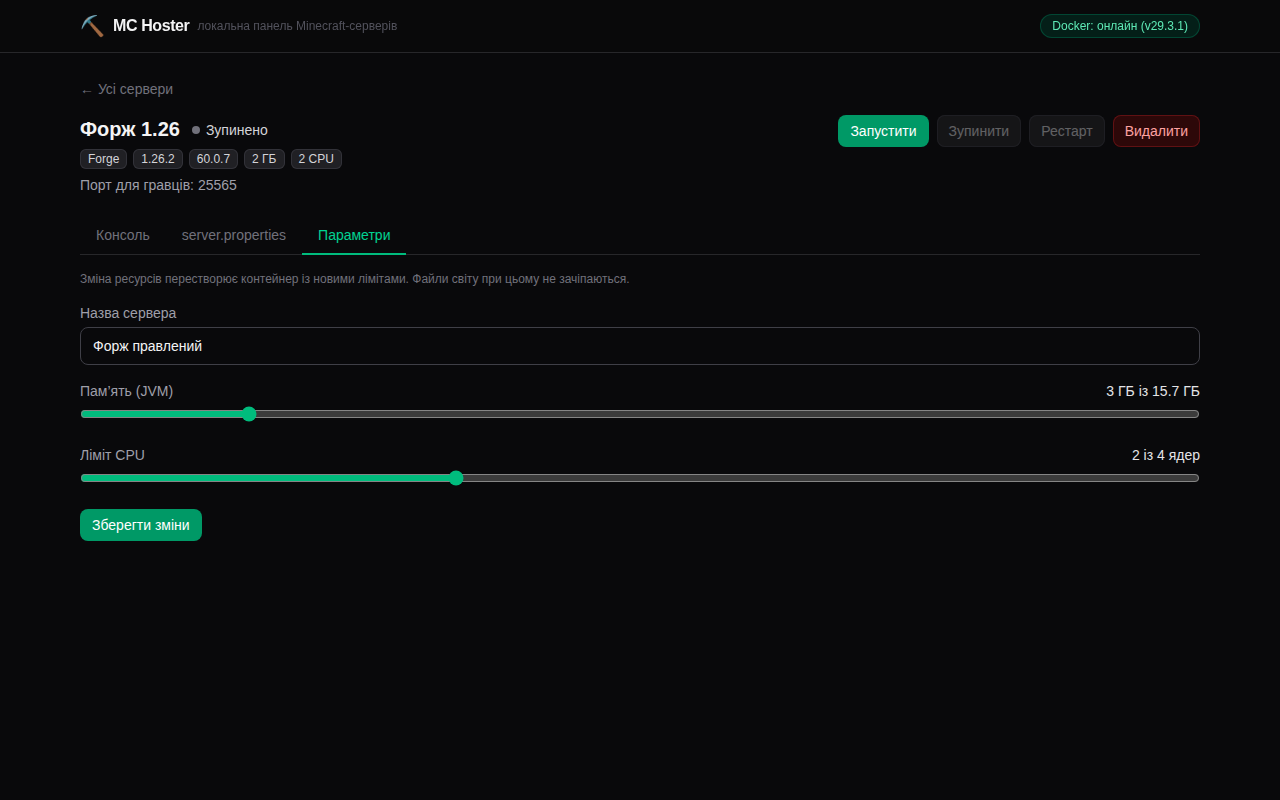
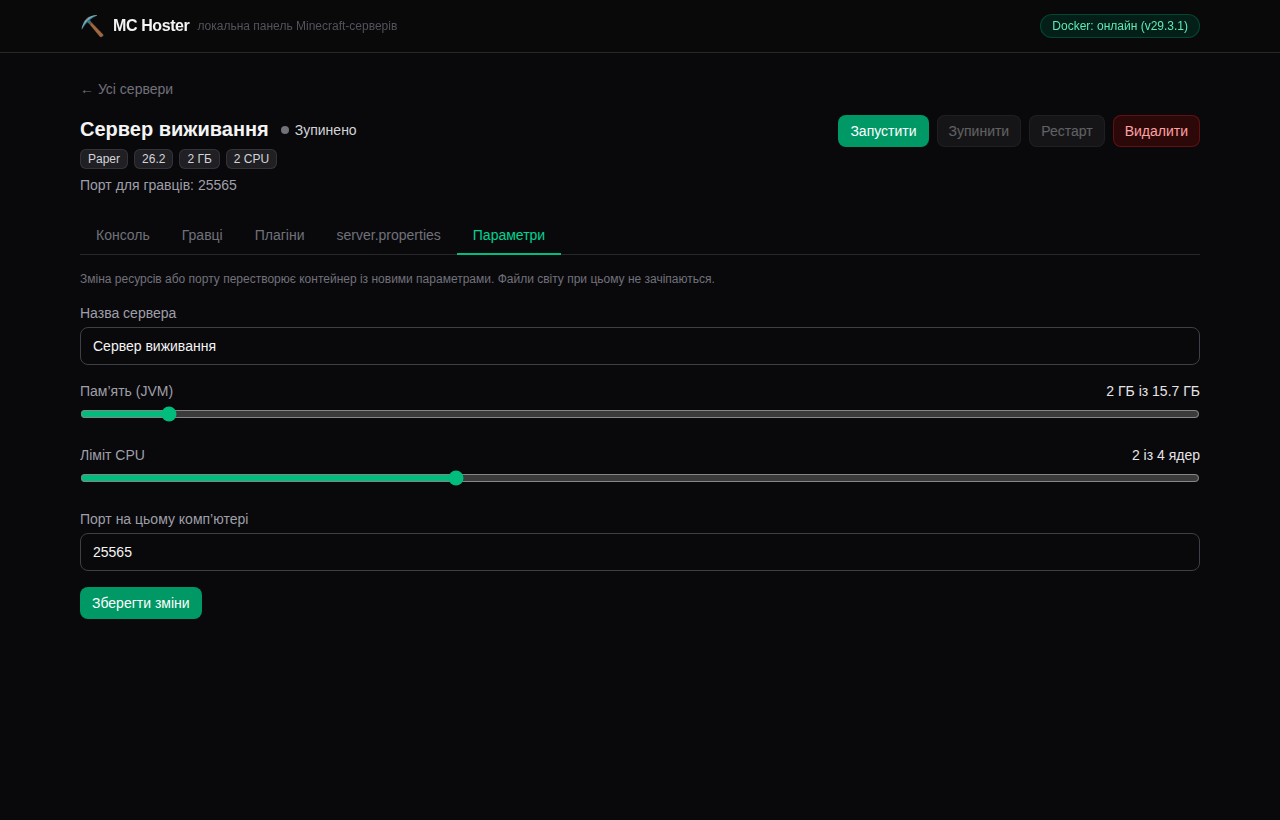
Фікси: автоскрол консолі, warning угорі в плагінах, редагування порту
1. Консоль тепер прокручується донизу (найновіше) при поверненні на вкладку —
   повторне монтування скидало scrollTop у 0; ставимо його на scrollHeight.

2. Попередження про рестарт у вкладці плагінів/модів перенесено ВГОРУ (перед
   drop-зоною) — тепер як на решті вкладок (єдиний стиль).

3. Порт можна змінити у «Параметрах» поряд з ОЗП і ЦП:
   - бекенд: PATCH приймає hostPort; валідація (унікальність, не порт панелі,
     вільний), перестворення контейнера з новим PortBindings — лише на зупиненому
   - фронтенд: поле порту у вкладці параметрів, активне тільки коли сервер зупинено

E2E (Chromium + Docker): 9/9 — консоль після повернення внизу, warning вище
drop-зони, поле порту, збереження порту + PortBindings нового контейнера.

Claude-Session: https://claude.ai/code/session_01STJUBpJNaT55nXvuKZLG6k

diff --git a/backend/src/services/serverService.ts b/backend/src/services/serverService.ts
@@ -308,9 +308,9 @@ export class ServerService {
   }
 
   /**
-   * Редагування сервера: назва — будь-коли; пам'ять/CPU — лише коли сервер
-   * зупинено (зміна лімітів вимагає перестворення контейнера, бо MEMORY —
-   * це env, який образ читає на старті).
+   * Редагування сервера: назва — будь-коли; пам'ять / CPU / порт — лише коли
+   * сервер зупинено (усі три застосовуються при СТВОРЕННІ контейнера: MEMORY —
+   * env, ліміт CPU — NanoCpus, порт — PortBindings), тож потребують перестворення.
    */
   async updateServer(id: string, patch: UpdateServerInput): Promise<ServerView> {
     const record = this.mustGet(id);
@@ -329,6 +329,23 @@ export class ServerService {
     const memoryChanged = patch.memoryMb !== undefined && patch.memoryMb !== record.memoryMb;
     const cpuChanged =
       patch.cpuCores !== undefined && (patch.cpuCores ?? null) !== record.cpuCores;
+    const portChanged = patch.hostPort !== undefined && patch.hostPort !== record.hostPort;
+    const needsRecreate = memoryChanged || cpuChanged || portChanged;
+
+    // Валідація нового порту (унікальність серед серверів, не порт панелі, вільний).
+    if (portChanged) {
+      const port = patch.hostPort!;
+      if (port === this.config.port) {
+        throw new ConflictError(`Порт ${port} зайнятий самою панеллю`);
+      }
+      const byPort = this.repo.findByPort(port);
+      if (byPort && byPort.id !== id) {
+        throw new ConflictError(`Порт ${port} уже закріплено за іншим сервером`);
+      }
+      if (!(await isTcpPortFree(port, this.config.gameBindHost))) {
+        throw new ConflictError(`Порт ${port} уже зайнятий іншим процесом на цьому комп'ютері`);
+      }
+    }
 
     if (memoryChanged || cpuChanged) {
       const totalMemoryMb = Math.floor(os.totalmem() / (1024 * 1024));
@@ -341,14 +358,14 @@ export class ServerService {
       if (patch.cpuCores != null && patch.cpuCores > cpuCount) {
         throw new ConflictError(`Запитано ${patch.cpuCores} ядер, а на машині всього ${cpuCount}`);
       }
+    }
 
-      // Ліміти застосовуються при створенні контейнера → міняти можна лише на зупиненому.
-      if (record.containerId) {
-        await assertDockerAvailable();
-        const state = await this.containers.inspectState(record.containerId);
-        if (state.running) {
-          throw new ConflictError('Зупиніть сервер, щоб змінити ресурси (потрібне перестворення контейнера)');
-        }
+    // Перестворення застосовується лише на зупиненому сервері.
+    if (needsRecreate && record.containerId) {
+      await assertDockerAvailable();
+      const state = await this.containers.inspectState(record.containerId);
+      if (state.running) {
+        throw new ConflictError('Зупиніть сервер, щоб змінити ресурси або порт (потрібне перестворення контейнера)');
       }
     }
 
@@ -356,15 +373,16 @@ export class ServerService {
       ...(newName ? { name: newName } : {}),
       ...(patch.memoryMb !== undefined ? { memoryMb: patch.memoryMb } : {}),
       ...(patch.cpuCores !== undefined ? { cpuCores: patch.cpuCores ?? null } : {}),
+      ...(patch.hostPort !== undefined ? { hostPort: patch.hostPort } : {}),
     });
     if (!updated) throw new NotFoundError(`Сервер з id=${id} не знайдено`);
 
-    // Перестворюємо контейнер із новими лімітами (світ у bind-mount — нічого не втрачається).
-    if ((memoryChanged || cpuChanged) && updated.containerId) {
+    // Перестворюємо контейнер із новими параметрами (світ у bind-mount — нічого не втрачається).
+    if (needsRecreate && updated.containerId) {
       await this.containers.removeIfExists(updated.containerId);
       const containerId = await this.containers.createServerContainer(updated, this.config.gameBindHost);
       this.repo.update(id, { containerId });
-      this.log.info(`Сервер ${updated.name} (${id}): контейнер перестворено з новими лімітами`);
+      this.log.info(`Сервер ${updated.name} (${id}): контейнер перестворено з новими параметрами`);
     }
 
     return this.toView(this.mustGet(id), await isDockerAvailable());

diff --git a/frontend/src/views/serverDetail.ts b/frontend/src/views/serverDetail.ts
@@ -330,12 +330,21 @@ export function renderServerDetail(root: HTMLElement, serverId: string): () => v
         // Повзунок на максимумі = «без ліміту CPU» (надсилаємо null).
         let cpuValue = current.cpuCores === null ? cpuCount : Math.min(current.cpuCores, cpuCount);
 
-        const nameInput = el('input', {
-          class:
-            'w-full rounded-lg border border-zinc-700 bg-zinc-950 px-3 py-2 text-sm text-zinc-100 ' +
-            'focus:border-emerald-500 focus:outline-none',
-          type: 'text',
-          value: current.name,
+        const inputClass =
+          'w-full rounded-lg border border-zinc-700 bg-zinc-950 px-3 py-2 text-sm text-zinc-100 ' +
+          'focus:border-emerald-500 focus:outline-none disabled:opacity-50';
+
+        const nameInput = el('input', { class: inputClass, type: 'text', value: current.name });
+
+        // Порт — як і ресурси, застосовується при створенні контейнера, тож
+        // редагується лише на зупиненому сервері.
+        const portInput = el('input', {
+          class: inputClass,
+          type: 'number',
+          min: '1024',
+          max: '65535',
+          value: String(current.hostPort),
+          disabled: resourcesLocked,
         });
 
         const formatGb = (mb: number): string =>
@@ -386,6 +395,12 @@ export function renderServerDetail(root: HTMLElement, serverId: string): () => v
               if (!resourcesLocked) {
                 patch.memoryMb = memoryMb;
                 patch.cpuCores = cpuValue >= cpuCount ? null : cpuValue;
+                const port = Number(portInput.value);
+                if (!Number.isInteger(port) || port < 1024 || port > 65535) {
+                  toast('Порт має бути числом від 1024 до 65535', 'error');
+                  return;
+                }
+                patch.hostPort = port;
               }
               applyServer(await api.updateServer(serverId, patch));
               toast('Налаштування збережено', 'success');
@@ -402,11 +417,11 @@ export function renderServerDetail(root: HTMLElement, serverId: string): () => v
             ? el('p', {
                 class:
                   'rounded-lg border border-amber-800/50 bg-amber-950/30 px-3 py-2 text-sm text-amber-300',
-                text: 'Сервер запущено: назву можна змінити зараз, а ресурси — лише після зупинки (потрібне перестворення контейнера).',
+                text: 'Сервер запущено: назву можна змінити зараз, а ресурси й порт — лише після зупинки (потрібне перестворення контейнера).',
               })
             : el('p', {
                 class: 'text-xs text-zinc-500',
-                text: 'Зміна ресурсів перестворює контейнер із новими лімітами. Файли світу при цьому не зачіпаються.',
+                text: 'Зміна ресурсів або порту перестворює контейнер із новими параметрами. Файли світу при цьому не зачіпаються.',
               }),
           el(
             'label',
@@ -435,6 +450,12 @@ export function renderServerDetail(root: HTMLElement, serverId: string): () => v
               cpuLabel,
             ),
             cpuSlider,
+          ),
+          el(
+            'label',
+            { class: 'block' },
+            el('span', { class: 'mb-1 block text-sm text-zinc-400', text: 'Порт на цьому комп’ютері' }),
+            portInput,
           ),
           saveButton,
         );
@@ -495,6 +516,10 @@ export function renderServerDetail(root: HTMLElement, serverId: string): () => v
               ? propertiesPanel
               : settingsPanel;
     mount(tabPanelSlot, panel);
+
+    // Повторне монтування скидає scrollTop у 0 → консоль показувала б початок.
+    // Прокручуємо до найновішого рядка при поверненні на вкладку консолі.
+    if (tab === 'console') consoleOutput.scrollTop = consoleOutput.scrollHeight;
 
     if (tab === 'properties' && !propertiesLoaded) void loadProperties();
     if (tab === 'settings') renderSettings();

diff --git a/backend/src/routes/servers.ts b/backend/src/routes/servers.ts
@@ -85,9 +85,19 @@ const updateServerSchema = z
       .max(256, 'Забагато ядер')
       .nullable()
       .optional(),
+    hostPort: z
+      .number({ invalid_type_error: 'Порт має бути числом' })
+      .int()
+      .min(1024, 'Використовуйте порти від 1024')
+      .max(65535, 'Порт має бути не більшим за 65535')
+      .optional(),
   })
   .refine(
-    (patch) => patch.name !== undefined || patch.memoryMb !== undefined || patch.cpuCores !== undefined,
+    (patch) =>
+      patch.name !== undefined ||
+      patch.memoryMb !== undefined ||
+      patch.cpuCores !== undefined ||
+      patch.hostPort !== undefined,
     { message: 'Немає жодного поля для оновлення' },
   );
 

diff --git a/frontend/src/views/addonsPanel.ts b/frontend/src/views/addonsPanel.ts
@@ -144,8 +144,9 @@ export function renderAddonsPanel(root: HTMLElement, serverId: string): () => vo
   }
 
   function render(): void {
-    const children: (HTMLElement | null)[] = [dropZone()];
+    const children: (HTMLElement | null)[] = [];
 
+    // Попередження про рестарт — угорі, як на інших вкладках (єдиний стиль).
     if (data?.requiresRestart) {
       children.push(
         el('p', {
@@ -157,6 +158,8 @@ export function renderAddonsPanel(root: HTMLElement, serverId: string): () => vo
     if (loadError) {
       children.push(el('p', { class: 'text-sm text-red-400', text: loadError }));
     }
+
+    children.push(dropZone());
 
     if (data) {
       const count = data.addons.length;

diff --git a/backend/src/db/serverRepository.ts b/backend/src/db/serverRepository.ts
@@ -27,6 +27,7 @@ export interface ServerPatch {
   name?: string;
   memoryMb?: number;
   cpuCores?: number | null;
+  hostPort?: number;
   pregenDone?: boolean;
   containerId?: string | null;
   status?: ProvisionStatus;
@@ -117,6 +118,7 @@ export class ServerRepository {
       name: 'name',
       memoryMb: 'memory_mb',
       cpuCores: 'cpu_cores',
+      hostPort: 'host_port',
       pregenDone: 'pregen_done',
       containerId: 'container_id',
       status: 'status',

diff --git a/backend/src/types.ts b/backend/src/types.ts
@@ -92,6 +92,8 @@ export interface UpdateServerInput {
   memoryMb?: number;
   /** null — зняти ліміт CPU. */
   cpuCores?: number | null;
+  /** Порт гри на хості (зміна перестворює контейнер). */
+  hostPort?: number;
 }
 
 /** Вхідні дані створення сервера (після zod-валідації). */

diff --git a/frontend/src/types.ts b/frontend/src/types.ts
@@ -109,6 +109,7 @@ export interface UpdateServerInput {
   name?: string;
   memoryMb?: number;
   cpuCores?: number | null;
+  hostPort?: number;
 }
 
 export interface VersionListResult {

diff --git a/README.md b/README.md
@@ -414,8 +414,8 @@ say Привіт усім!         — повідомлення в чат
 ### 2.7. Редагуйте параметри сервера
 
 Вкладка **Параметри** — зміна налаштувань уже створеного сервера: назва редагується
-будь-коли, а пам'ять і ліміт CPU — коли сервер зупинено (панель перестворює контейнер
-із новими лімітами; файли світу лежать на диску і не зачіпаються):
+будь-коли, а пам'ять, ліміт CPU і порт — коли сервер зупинено (панель перестворює
+контейнер із новими параметрами; файли світу лежать на диску і не зачіпаються):
 
 <p align="center"><img src="docs/screenshots/07-settings.png" alt="Вкладка Параметри" width="800"></p>
 
@@ -641,7 +641,7 @@ npm run package -w backend      # → dist-release/mc-hoster-<os>-<arch>/
 | `GET /api/servers` | Список серверів + живий стан (`runtime: creating/running/stopped/error/unknown`) |
 | `POST /api/servers` | Створити: `{ name, kind, version, coreVersion?, hostPort, memoryMb, cpuCores?, onlineMode, pregenRadius?, acceptEula: true, autoStart }` → `201`, провізія у фоні |
 | `GET /api/servers/:id` | Один сервер |
-| `PATCH /api/servers/:id` | Змінити `{ name?, memoryMb?, cpuCores? }`; ресурси — лише на зупиненому (контейнер перестворюється) |
+| `PATCH /api/servers/:id` | Змінити `{ name?, memoryMb?, cpuCores?, hostPort? }`; ресурси/порт — лише на зупиненому (контейнер перестворюється) |
 | `POST /api/servers/:id/start` | Запуск (перестворює контейнер після помилки/видалення вручну) |
 | `POST /api/servers/:id/stop` | Graceful stop (до 60 с на збереження світу) |
 | `POST /api/servers/:id/restart` | Перезапуск |
